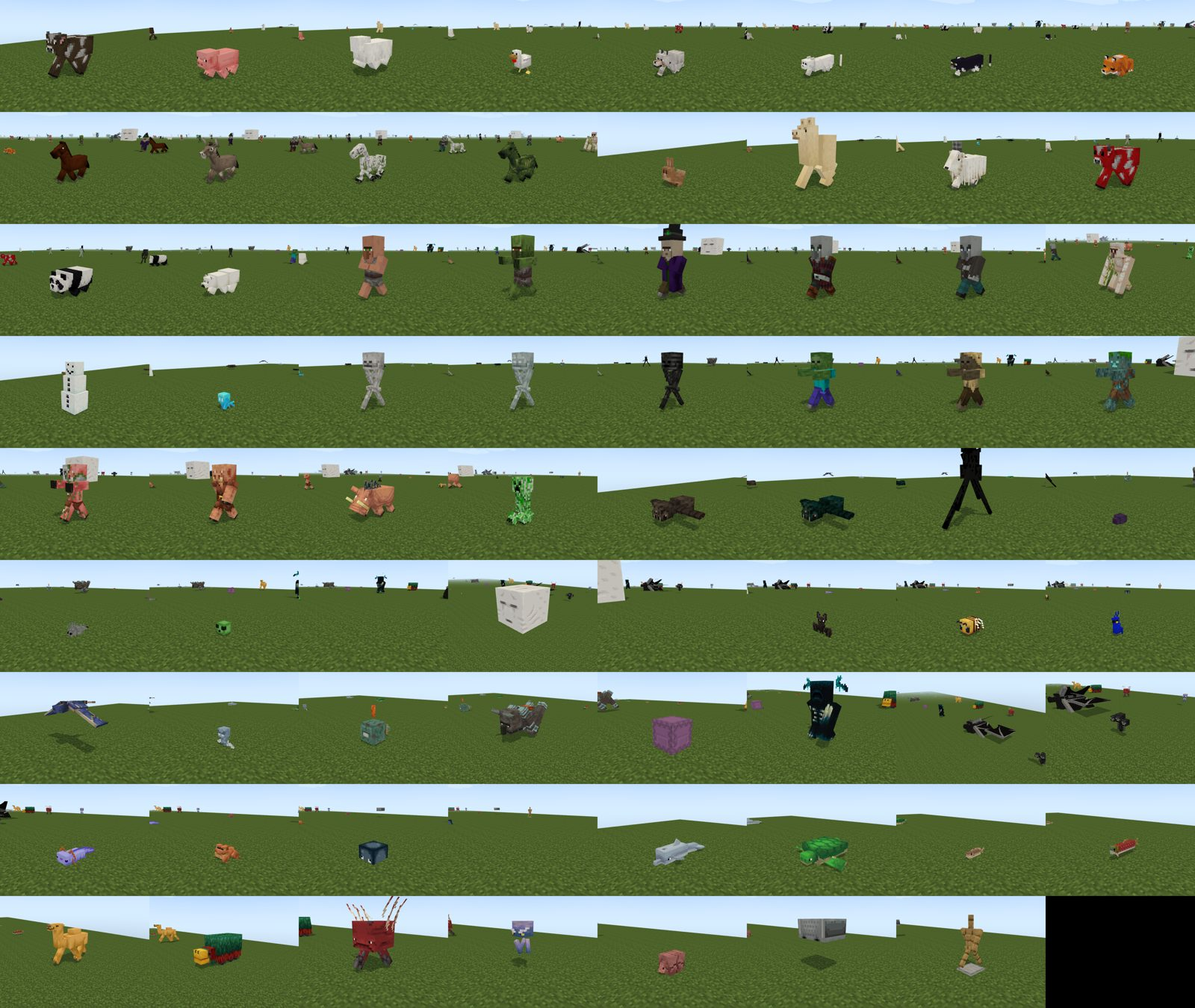
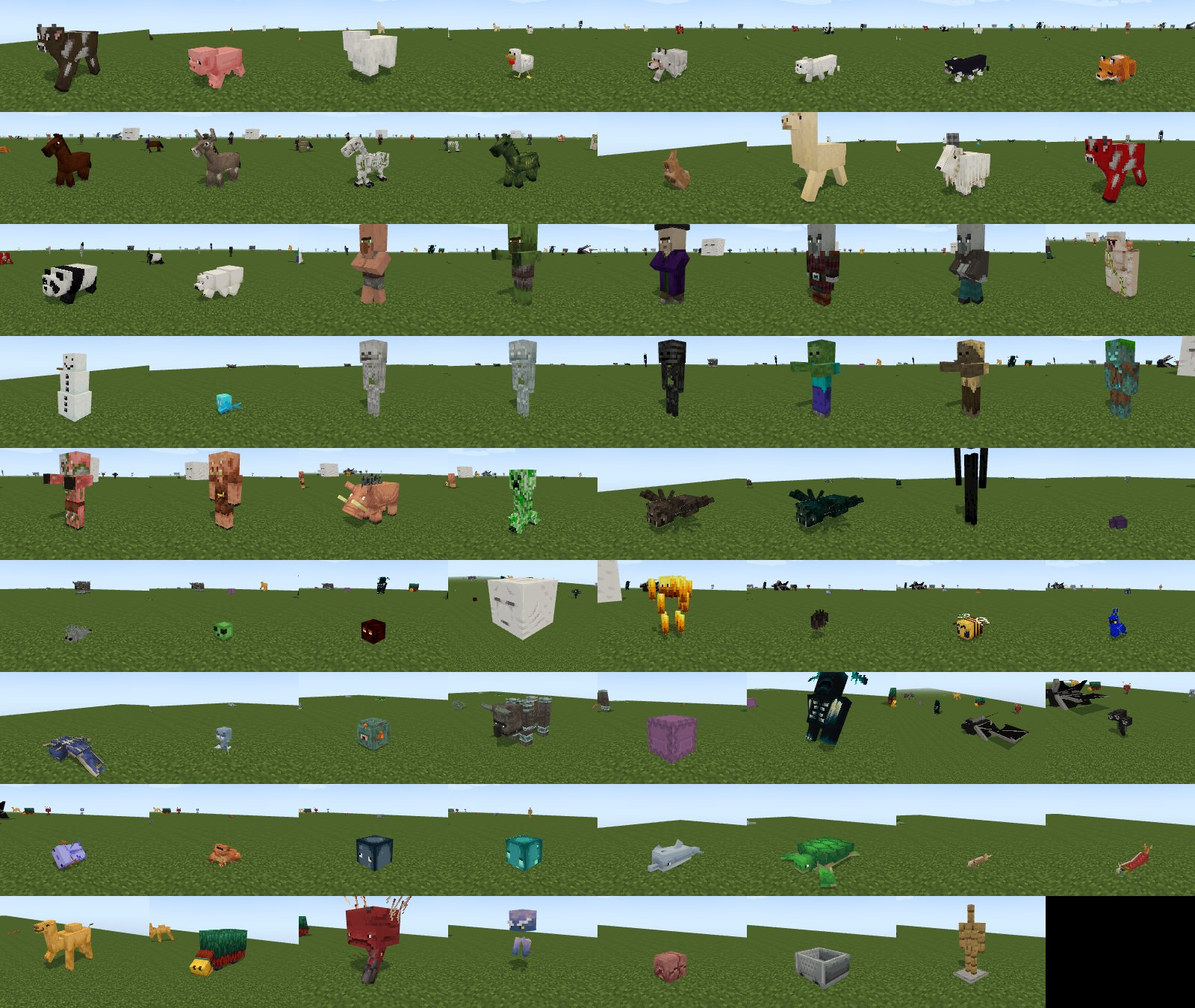
Mobs move with the game's own animations (Molang interpreter)
- core/engine/molang.js: a small Molang interpreter (math in degrees, query/variable/temp/context,
  ternaries, assignments, keyframes, `this`) and animateEntity(): the entity's animate list, controllers
  resolved to their base animation, situational animations gated by the clip, distance-driven gaits
  faded by the move speed
- tools/vanilla.py mobs stores each mob's animations and scripts; emissive-alpha textures (blaze,
  magma cube, glow squid) become opaque skins plus a glow map (they were invisible); llama body pose;
  wolf, polar bear and ender dragon keep the bone-name rules; guardian spikes use absolute pivots
- geo.js drives bones from Molang (per actor "molang": false to opt out); glowing texels ignore light
- tests: Molang parser, gait fade, `this`, situational gating, absolute pivots
- docs: MOBS, COVERAGE, README galleries regenerated

Claude-Session: https://claude.ai/code/session_01BQQ2P2NCNPsP6E9pmz2z7A

diff --git a/core/engine/molang.js b/core/engine/molang.js
@@ -1,0 +1,160 @@
+// A small Molang interpreter: the expression language the game uses for its entity animations
+// ("math.cos(query.anim_time * 38.17) * 80.0", "variable.wing_flap - this", "q.is_baby ? 2 : 1").
+// Expressions compile once into JS closures. Supported: numbers, strings, + - * / unary - !, comparisons, && || ?? ?:,
+// parentheses, assignments and ';' statements, math.* (trigonometry in degrees, like the game), query.* / variable.* / temp.* /
+// context.* (with the short forms q. v. t. c.) and `this`. Unknown queries and functions read as 0, so any animation evaluates.
+
+const MATH = {
+  sin: (d) => Math.sin(d * Math.PI / 180), cos: (d) => Math.cos(d * Math.PI / 180), abs: Math.abs, floor: Math.floor, ceil: Math.ceil,
+  round: Math.round, trunc: Math.trunc, sqrt: Math.sqrt, pow: Math.pow, exp: Math.exp, ln: Math.log, min: Math.min, max: Math.max,
+  clamp: (v, a, b) => Math.max(a, Math.min(b, v)), lerp: (a, b, t) => a + (b - a) * t, mod: (a, b) => a % b, pi: Math.PI,
+  asin: (v) => Math.asin(v) * 180 / Math.PI, acos: (v) => Math.acos(v) * 180 / Math.PI, atan: (v) => Math.atan(v) * 180 / Math.PI,
+  atan2: (y, x) => Math.atan2(y, x) * 180 / Math.PI, sign: Math.sign, hermite_blend: (t) => 3 * t * t - 2 * t * t * t,
+  lerprotate: (a, b, t) => { const d = ((((b - a) % 360) + 540) % 360) - 180; return a + d * t; },
+  random: (a, b) => a + (b - a) * 0.5, random_integer: (a, b) => Math.round((a + b) / 2), die_roll: (n, a, b) => n * (a + b) / 2,
+  min_angle: (v) => { let a = v % 360; if (a >= 180) a -= 360; if (a < -180) a += 360; return a; },
+};
+const ALIAS = { q: 'query', v: 'variable', t: 'temp', c: 'context' };
+
+function tokenize(src) {
+  const out = []; let i = 0;
+  while (i < src.length) {
+    const ch = src[i];
+    if (/\s/.test(ch)) { i++; continue; }
+    if (/[0-9]/.test(ch) || (ch === '.' && /[0-9]/.test(src[i + 1] ?? ''))) { let j = i; while (j < src.length && /[0-9.]/.test(src[j])) j++; if (src[j] === 'f') j++; out.push({ t: 'num', v: parseFloat(src.slice(i, j)) }); i = j; continue; }
+    if (/[A-Za-z_]/.test(ch)) { let j = i; while (j < src.length && /[A-Za-z0-9_.]/.test(src[j])) j++; out.push({ t: 'id', v: src.slice(i, j).toLowerCase() }); i = j; continue; }
+    if (ch === "'" || ch === '"') { let j = i + 1; while (j < src.length && src[j] !== ch) j++; out.push({ t: 'str', v: src.slice(i + 1, j) }); i = j + 1; continue; }
+    const two = src.slice(i, i + 2);
+    if (['&&', '||', '<=', '>=', '==', '!=', '??', '->'].includes(two)) { out.push({ t: 'op', v: two }); i += 2; continue; }
+    out.push({ t: 'op', v: ch }); i++;
+  }
+  return out;
+}
+
+const BP = { '=': 1, '?': 2, '??': 3, '||': 4, '&&': 5, '==': 6, '!=': 6, '<': 7, '>': 7, '<=': 7, '>=': 7, '+': 8, '-': 8, '*': 9, '/': 9 };
+
+function parse(tokens) {
+  let p = 0; const peek = () => tokens[p]; const next = () => tokens[p++];
+  const expect = (v) => { const t = next(); if (!t || t.v !== v) throw new Error('molang: expected ' + v); };
+  const ref = (name) => { const [head, ...rest] = name.split('.'); const ns = ALIAS[head] || head; return [ns, rest.join('.')]; };
+  function nud(tk) {
+    if (!tk) return () => 0;
+    if (tk.t === 'num') { const v = tk.v; return () => v; }
+    if (tk.t === 'str') { const v = tk.v; return () => v; }
+    if (tk.v === '(') { const e = expr(0); expect(')'); return e; }
+    if (tk.v === '{') { const body = statements('}'); expect('}'); return body; }
+    if (tk.v === '-') { const e = expr(10); return (env) => -e(env); }
+    if (tk.v === '+') return expr(10);
+    if (tk.v === '!') { const e = expr(10); return (env) => (e(env) ? 0 : 1); }
+    if (tk.t === 'id') {
+      const name = tk.v;
+      if (name === 'this') return (env) => env.this ?? 0;
+      if (name === 'true') return () => 1; if (name === 'false') return () => 0;
+      if (name === 'return') { const e = expr(0); return e; }
+      if (peek() && peek().v === '(') { // function call
+        next(); const args = []; while (peek() && peek().v !== ')') { args.push(expr(0)); if (peek() && peek().v === ',') next(); } expect(')');
+        const [ns, fn] = ref(name);
+        if (ns === 'math' && MATH[fn]) { const f = MATH[fn]; return (env) => f(...args.map((a) => a(env))); }
+        return (env) => { const q = env.query[fn]; return typeof q === 'function' ? q(...args.map((a) => a(env))) : (typeof q === 'number' ? q : 0); };
+      }
+      const [ns, key] = ref(name);
+      if (ns === 'math' && key === 'pi') return () => Math.PI;
+      if (ns === 'query') return (env) => { const q = env.query[key]; return typeof q === 'function' ? q() : (q ?? 0); };
+      return (env) => { const scope = env[ns] || (env[ns] = {}); return scope[key] ?? 0; };
+    }
+    return () => 0;
+  }
+  function expr(rbp) {
+    let left = nud(next());
+    for (;;) {
+      const tk = peek(); if (!tk || tk.t !== 'op') break; const bp = BP[tk.v]; if (bp === undefined || bp <= rbp) break;
+      next(); const op = tk.v; const l = left;
+      if (op === '?') { const a = expr(0); let b = () => 0; if (peek() && peek().v === ':') { next(); b = expr(1); } left = (env) => (l(env) ? a(env) : b(env)); continue; }
+      if (op === '=') { // assignment: the identifier is the token just before '='
+        const id = tokens[p - 2]; const r = expr(0);
+        if (id && id.t === 'id') { const [ns, key] = ref(id.v); left = (env) => { const v = r(env); (env[ns] || (env[ns] = {}))[key] = v; return v; }; } else left = r;
+        continue;
+      }
+      const r = expr(op === '??' ? bp - 1 : bp);
+      left = {
+        '+': (e) => l(e) + r(e), '-': (e) => l(e) - r(e), '*': (e) => l(e) * r(e), '/': (e) => { const d = r(e); return d === 0 ? 0 : l(e) / d; },
+        '<': (e) => +(l(e) < r(e)), '>': (e) => +(l(e) > r(e)), '<=': (e) => +(l(e) <= r(e)), '>=': (e) => +(l(e) >= r(e)),
+        '==': (e) => +(l(e) === r(e)), '!=': (e) => +(l(e) !== r(e)), '&&': (e) => +(!!l(e) && !!r(e)), '||': (e) => +(!!l(e) || !!r(e)),
+        '??': (e) => { const v = l(e); return v === undefined || v === null || v === 0 ? r(e) : v; },
+      }[op];
+    }
+    return left;
+  }
+  function statements(end) {
+    const list = [];
+    while (p < tokens.length && !(end && peek().v === end)) { if (peek().v === ';') { next(); continue; } list.push(expr(0)); if (peek() && peek().v === ';') next(); }
+    return (env) => { let v = 0; for (const s of list) v = s(env); return v; };
+  }
+  return statements(null);
+}
+
+const cache = new Map();
+export function compile(src) {
+  if (typeof src === 'number') return () => src;
+  if (typeof src !== 'string') return () => 0;
+  if (!cache.has(src)) { let f; try { f = parse(tokenize(src)); } catch { f = () => 0; } cache.set(src, f); }
+  return cache.get(src);
+}
+export const evaluate = (src, env) => { const v = compile(src)(env); return typeof v === 'number' && isFinite(v) ? v : 0; };
+
+// ----------------------------------------------------------------------------------------------- animations ----
+// Evaluate an entity's animations at one instant: returns Map(boneName -> { rot:[x,y,z] deg, pos:[x,y,z] px, scale }) of offsets that
+// add to the bind pose, like the game. `rest(bone)` gives the bind-pose rotation (for `this`).
+export function animateEntity(geo, queries, rest) {
+  const env = { query: queries, variable: {}, temp: {}, context: {} };
+  for (const s of geo.pre || []) evaluate(s, env);
+  const out = new Map(); const pivots = new Map((geo.bones || []).map((bn) => [bn.name.toLowerCase(), bn.pivot || [0, 0, 0]]));
+  // which animations play: the entity's animate list; controllers resolve to their base animation (move_controller -> move);
+  // situational ones (sleeping, sitting, riding, baby, attacks...) play only when the actor's clip asks for them
+  const A = geo.anims || {};
+  const resolveName = (n) => { if (A[n]) return n; if (n.endsWith('_controller')) { const b = n.slice(0, -11); for (const c of [b, b + '_default', b + '.rotations', b + '.v1.0']) if (A[c]) return c; } return null; };
+  const allow = (n) => (queries.is_attacking && /attack|bare_hand/.test(n)) || (queries.is_sprinting && /sprint/.test(n)) || (queries.is_flying && /fly/.test(n)) || (queries.is_sitting && /sit/.test(n)) || (queries.is_sleeping && /sleep|bed|lie/.test(n)) || (queries.is_baby && /baby/.test(n)) || (/bare_hand/.test(n) && queries.undead_arms);
+  const SITUATIONAL = /bed|sleep|lying|rolling|sneez|unhappy|baby|sit|lie_?down|rear|eat|graz|swim|sneak|rid(e|ing)|spear|bow|holding|use_item|damage|scary|carry|charg|celebr|roar|sniff|dig|emerge|sonic|ram_|shake|beg|panic|stand|inflate|attack|bare_hand|spyglass|gliding|crossbow|tongue|croak|jump|sprint|fly|tame|angry|interest|look_at_player_while/;
+  const entries = (geo.animate && geo.animate.length ? geo.animate : Object.keys(A));
+  const list = [];
+  for (const x of entries) {
+    const [n0, c] = typeof x === 'string' ? [x, 1] : Object.entries(x)[0]; const n = resolveName(n0); if (!n) continue;
+    if (SITUATIONAL.test(n) && !allow(n)) continue;
+    let w = typeof c === 'number' ? c : evaluate(c, env); w = w || (allow(n) ? 1 : 0);
+    // a gait driven by distance moved freezes mid-stride when the mob stops: the game fades it with the move speed
+    if (typeof c === 'number' && /modified_distance_moved/.test(A[n].anim_time_update || '')) w *= queries.modified_move_speed || 0;
+    list.push([n, w]);
+  }
+  for (const [name, weight] of list) {
+    const an = A[name]; if (!an || !weight || !an.bones) continue;
+    const len = an.animation_length || 0;
+    let at = an.anim_time_update ? evaluate(an.anim_time_update, env) : queries.life_time;
+    if (len && an.loop === true) at = ((at % len) + len) % len; else if (len) at = Math.min(at, len);
+    env.query = { ...queries, anim_time: at };
+    for (const [bone, ch] of Object.entries(an.bones)) {
+      const b = bone.toLowerCase(); const o = out.get(b) || { rot: [0, 0, 0], pos: [0, 0, 0], scale: 1 }; out.set(b, o);
+      void rest;
+      const read = (val, i, cur) => { env.this = cur; return evaluate(val, env); };
+      const chan = (v, at2) => { // a constant/expression triple, a single value, or keyframes {"0.0": [...], "0.5": [...]}
+        if (Array.isArray(v) || typeof v !== 'object' || v === null) return v;
+        const keys = Object.keys(v).map(Number).sort((a2, b2) => a2 - b2); if (!keys.length) return [0, 0, 0];
+        const pick = (k) => { const x = v[Object.keys(v).find((kk) => Number(kk) === k)]; return Array.isArray(x) ? x : (x && (x.post || x.pre)) || [0, 0, 0]; };
+        if (at2 <= keys[0]) return pick(keys[0]); if (at2 >= keys[keys.length - 1]) return pick(keys[keys.length - 1]);
+        let i = 0; while (keys[i + 1] < at2) i++; const k0 = keys[i], k1 = keys[i + 1], u = (at2 - k0) / (k1 - k0 || 1);
+        const A = pick(k0), B = pick(k1); return [0, 1, 2].map((j) => ({ lerp: [A[j], B[j], u] }));
+      };
+      const val3 = (v, cur) => {
+        const c = chan(v, env.query.anim_time);
+        if (!Array.isArray(c)) { const s = read(c, 0, cur[0]); return [s, s, s]; }
+        return c.map((x, j) => (x && x.lerp ? evaluate(x.lerp[0], env) + (evaluate(x.lerp[1], env) - evaluate(x.lerp[0], env)) * x.lerp[2] : read(x, j, cur[j])));
+      };
+      if (ch.rotation !== undefined) { const r = val3(ch.rotation, o.rot.slice()); for (let j = 0; j < 3; j++) o.rot[j] += r[j] * weight; } // `this` = what earlier animations added (the game's meaning)
+      if (ch.position !== undefined) { // legacy rigs (guardian) write absolute pivots: there `this` is the bone's own pivot
+        const base = geo.absPos ? (pivots.get(b) || [0, 0, 0]).map((v, j) => v + o.pos[j]) : o.pos;
+        const r = val3(ch.position, base); for (let j = 0; j < 3; j++) o.pos[j] += r[j] * weight;
+      }
+      if (ch.scale !== undefined) { const r = val3(ch.scale, [o.scale, o.scale, o.scale]); o.scale *= 1 + (r[0] - 1) * weight; }
+    }
+  }
+  return out;
+}

diff --git a/core/engine/geo.js b/core/engine/geo.js
@@ -3,6 +3,7 @@
 // so a cow, a villager, a horse, a bat or the ender dragon all walk, look and react without hand-made rigs.
 //
 // Frames: Bedrock models face -Z; BlockReel actors face +Z, so every point is turned half a turn around Y: (x, y, z) -> (-x, y, -z).
+import { animateEntity } from './molang.js';
 const PX = 1 / 16;
 const S = Math.sin;
 const DEG = Math.PI / 180;
@@ -37,11 +38,12 @@ const P = (p) => [-(p[0] || 0) * PX, (p[1] || 0) * PX, -(p[2] || 0) * PX];
 export function buildGeoModel(THREE, geo, tex, cfg = {}) {
   const TW = geo.tw || 64, TH = geo.th || 64;
   const mat = new THREE.MeshLambertMaterial({ map: tex, alphaTest: 0.5, side: THREE.DoubleSide });
+  if (cfg.glow) { mat.emissiveMap = cfg.glow; mat.emissive.set(0xffffff); mat.userData.glow = true; }
   const root = new THREE.Group(); const inner = new THREE.Group(); root.add(inner);
   const bones = new Map(); const byName = (n) => bones.get(String(n).toLowerCase());
   let minY = Infinity, maxY = -Infinity;
   for (const b of geo.bones) { // first pass: groups at their pivots (bones may be listed before their parents)
-    const g = new THREE.Group(); g.name = b.name; g.userData = { pivot: P(b.pivot || [0, 0, 0]), rest: rot(b.rotation), bone: b };
+    const g = new THREE.Group(); g.name = b.name; g.userData = { pivot: P(b.pivot || [0, 0, 0]), rest: rot(b.rotation), restDeg: b.rotation || [0, 0, 0], bone: b };
     g.rotation.order = 'ZYX'; g.rotation.set(...g.userData.rest);
     bones.set(b.name.toLowerCase(), g);
   }
@@ -84,9 +86,36 @@ export function buildGeoModel(THREE, geo, tex, cfg = {}) {
   const side = (g) => Math.sign(g.userData.pivot[0]) || 1; const front = (g) => g.userData.pivot[2] >= 0 ? 1 : -1;
   const undeadArms = /zombie|husk|drowned|pigman/i.test(cfg.type || '');
   const headY = Math.max(0.5, maxY) * sc, eyeY = (head ? head.userData.pivot[1] + 0.12 : maxY * 0.85) * sc;
+  // the game's own animations (Molang), when the cache has them: exact walk cycles, wings, the blaze's rods, the magma cube...
+  const useMolang = !!(geo.anims && cfg.molang !== false);
+  const basePos = new Map([...bones.values()].map((g) => [g, g.position.clone()]));
+  const molangUpdate = (st, t) => {
+    const walking = /walk|run|zombie|charge|sneak/.test(st.clip); const run = /run|charge/.test(st.clip);
+    const speed = walking ? (run ? 4.3 : 2.2) * (st.sp || 1) : 0;
+    const q = { life_time: t, anim_time: t, modified_move_speed: walking ? (run ? 0.75 : 0.45) : 0, modified_distance_moved: walking ? st.ct * speed * 4 : 0,
+      distance_moved: walking ? st.ct * speed : 0, ground_speed: speed, is_moving: walking ? 1 : 0, is_on_ground: 1, is_alive: 1, is_baby: cfg.baby ? 1 : 0,
+      delta_time: 1 / 30, time_of_day: 0.3, is_angry: st.clip === 'swell' ? 1 : 0, is_charging: st.clip === 'cast' ? 1 : 0, is_sheared: 0, has_target: 0,
+      target_x_rotation: 0, target_y_rotation: 0, head_x_rotation: () => 0, head_y_rotation: () => 0, body_y_rotation: 0, is_in_water: 0, is_jumping: 0, is_sitting: st.clip === 'sit' ? 1 : 0,
+      is_attacking: /swing|slash|overhead|punch|thrust/.test(st.clip) ? 1 : 0, attack_time: /swing|slash|overhead|punch|thrust/.test(st.clip) ? Math.min(1, st.ct / (st.dur || 0.6)) : 0,
+      is_flying: /fly|glide/.test(st.clip) ? 1 : 0, is_gliding: 0, swell_amount: 0, property: () => 0, all_animations_finished: 1, any_animation_finished: 1,
+      is_sprinting: run ? 1 : 0, is_sleeping: st.clip === 'sleep' ? 1 : 0, undead_arms: /zombie|husk|drowned|pigman/i.test(cfg.type || '') ? 1 : 0 };
+    const offs = animateEntity(geo, q, (b) => { const g = bones.get(b); return g ? g.userData.restDeg : null; });
+    for (const [name, g] of bones) {
+      const o = offs.get(name); const rd = g.userData.restDeg; const bp = basePos.get(g);
+      if (!o) { g.rotation.set(...g.userData.rest); g.position.copy(bp); g.scale.setScalar(1); continue; }
+      g.rotation.set(...rot([rd[0] + o.rot[0], rd[1] + o.rot[1], rd[2] + o.rot[2]]));
+      g.position.set(bp.x - o.pos[0] * PX, bp.y + o.pos[1] * PX, bp.z - o.pos[2] * PX); g.scale.setScalar(o.scale || 1);
+    }
+    let k = 1, flash = 0;
+    if (st.clip === 'swell') { const u = Math.min(1, st.ct / (st.dur || 1.5)); k = 1 + 0.35 * u * u + 0.03 * S(st.ct * 50); flash = Math.floor(st.ct * (5 + 6 * u)) % 2 === 0 ? 1 : 0; }
+    inner.scale.set(k, k, k); api.flash = flash;
+    if (st.clip === 'hit' || st.clip === 'knockback') { const u = Math.min(1, st.ct / (st.dur || 0.5)); inner.rotation.x = -0.35 * Math.sin(Math.PI * u); } else inner.rotation.x = 0;
+    inner.rotation.z = st.clip === 'die' || st.clip === 'fall' ? Math.min(1, st.ct / 0.5) * Math.PI / 2 : 0;
+  };
   const api = {
     root, head: head || inner, headY, eyeY, mats: [mat], flash: 0, bones,
     update(st, t) {
+      if (useMolang) { molangUpdate(st, t); return; }
       const walking = st.clip === 'walk' || st.clip === 'run' || st.clip === 'zombie' || st.clip === 'charge';
       const sp = (st.sp || 1) * (st.clip === 'run' || st.clip === 'charge' ? 1.6 : 1); const w = st.ct * 7 * sp; const amp = walking ? (st.clip === 'run' ? 1.0 : 0.7) : 0;
       for (const g of legs) { // diagonal pairs for four legs and more, alternating for two

diff --git a/core/engine/engine.js b/core/engine/engine.js
@@ -314,7 +314,9 @@ async function makeMob(name, cfg) {
   if (cfg.geo || mobIndex[cfg.type]) {
     const geoUrl = cfg.geo ? resolve(cfg.geo) : `/work/vanilla/mobs/${mobIndex[cfg.type].geo}`;
     const texUrl = cfg.texture && !cfg.texture.startsWith('/core/builtin/') ? resolve(cfg.texture) : `/work/vanilla/mobs/${mobIndex[cfg.type]?.texture ?? cfg.type + '.png'}`;
-    m = buildGeoModel(THREE, await getJSON(geoUrl), await pixelTex(texUrl), cfg);
+    const geo = await getJSON(geoUrl); // emissive mobs (blaze, magma cube, glow squid) carry a glow map: lit in the dark like the game
+    const glow = geo.glow && !cfg.texture ? await pixelTex(`/work/vanilla/mobs/${geo.glow}`) : null;
+    m = buildGeoModel(THREE, geo, await pixelTex(texUrl), { ...cfg, glow });
   } else {
     if (!['creeper', 'pig', 'spider'].includes(cfg.type)) throw new Error(`mob "${cfg.type}" needs the game's geometry: run python tools/vanilla.py mobs`);
     m = buildMob(THREE, cfg.type, await pixelTex(resolve(cfg.texture)), cfg);
@@ -678,6 +680,7 @@ function lightActors() {
     const k = (cave + (1 - cave) * s) * (a.mob && a.mob.flash ? 2.6 : 1); const warm = b * 1.0 * (1 - day * s); const hurt = a._hurt || 0;
     for (const m of a.mats) {
       m.color.setRGB(k, k * (1 - hurt * 0.6), k * (1 - hurt * 0.6));
+      if (m.userData.glow) { m.emissive.setRGB(1, 1 - hurt * 0.5, 1 - hurt * 0.5); continue; } // glowing texels ignore the light
       m.emissive.setRGB(LIGHT_U.uBlockColor.value.r * warm + hurt * 0.45, LIGHT_U.uBlockColor.value.g * warm, LIGHT_U.uBlockColor.value.b * warm);
     }
   }

diff --git a/tools/vanilla.py b/tools/vanilla.py
@@ -299,7 +299,31 @@ villager villager_v1.0 villager_v2 vindicator vindicator_v1.0 warden witch witch
 zombie.v1.0 zombie_pigman zombie_pigman.v1.0 zombie_villager zombie_villager.v1.0 zombie_villager_v2""".split()
 
 
-MOB_FIXES = {"polar_bear": {"body": [90, 0, 0]}, "cat": {"body": [90, 0, 0]}, "ocelot": {"body": [90, 0, 0]}}
+ANIM_FILES = """actor.animation.json agent.animation.json allay.animation.json armadillo.animation.json armor.animation.json armor_stand.animation.json arrow.animation.json axolotl.animation.json bat.animation.json bee.animation.json blaze.animation.json bow.animation.json breeze.animation.json camel.animation.json cat.animation.json chicken.animation.json cod.animation.json copper_golem.animation.json cow.animation.json creaking.animation.json creeper.animation.json crossbow.animation.json dolphin.animation.json drowned.animation.json drowned.animation.v1.0.json elytra.animation.json ender_crystal.animation.json ender_dragon.animation.json enderman.animation.json enderman.animation.v1.0.json endermite.animation.json evocation_fang.animation.json evoker.animation.json fireworks_rocket.animation.json fox.animation.json frog.animation.json ghast.animation.json goat.animation.json guardian.animation.json guardian.animation.v1.0.json happy_ghast.animation.json hoglin.animation.json horse_v1.animation.json horse_v2.animation.json horse_v3.animation.json humanoid.animation.json iron_golem.animation.json llama.animation.json llama_spit.animation.json look_at_target.animation.json magma_cube.animation.json minecart.animation.json minecart.animation.v1.0.json mooshroom.animation.json nautilus.animation.json npc.animation.json ocelot.animation.json ocelot.animations.v1.0.json panda.animation.json parrot.animation.json phantom.animation.json pig.animation.json piglin.animation.json pillager.animation.json player.animation.json player_firstperson.animation.json polar_bear.animation.json pufferfish.animation.json quadruped.animation.json rabbit.animation.json rabbit.v2.animation.json ravager.animation.json salmon.animation.json sheep.animation.json shield.animation.json shulker.animation.json shulker.animations.v1.0.json shulker_bullet.animation.json silverfish.animation.json skeleton.animation.json skeleton.animations.v1.0.json sniffer.animation.json snow_golem.animation.json snow_golem.animations.v1.0.json spear.animation.json spider.animation.json spyglass.animation.json squid.animation.json strider.animation.json sulfur_cube.animation.json tadpole.animation.json trident.animation.json tripod_camera.animation.json tropicalfish.animation.json turtle.animation.json turtle.animations.json vex.animation.json villager.animation.json vindicator.animation.json warden.animation.json wind_charge.animation.json witch.animation.json wither_boss.animation.json wither_skeleton.animation.json wither_skull.animation.json wolf.animations.json zombie.animation.json""".split()
+
+
+def _anim_index(base, raw):
+    """animation id -> animation definition, from every animation file of the samples."""
+    idx = {}
+    for fn in ANIM_FILES:
+        rel = f"animations/{fn}"; dst = raw / rel
+        try:
+            if not dst.exists():
+                dst.parent.mkdir(parents=True, exist_ok=True)
+                req = urllib.request.Request(base + rel, headers={"User-Agent": "blockreel-vanilla-fetch"})
+                with urllib.request.urlopen(req, timeout=30) as r:
+                    dst.write_bytes(r.read())
+            d = _loose_json(dst.read_text(encoding="utf-8", errors="replace"))
+            idx.update(d.get("animations", {}))
+        except Exception:
+            continue
+    return idx
+
+
+# mobs whose game animations set absolute poses for a legacy rig (they fight our rest pose): animated procedurally instead
+MOLANG_SKIP = {"wolf", "polar_bear", "ender_dragon"}
+MOLANG_ABS_POS = {"guardian", "elder_guardian"}  # their animations write absolute pivots (the spikes)
+MOB_FIXES = {"polar_bear": {"body": [90, 0, 0]}, "llama": {"body": [90, 0, 0]}, "trader_llama": {"body": [90, 0, 0]}, "cat": {"body": [90, 0, 0]}, "ocelot": {"body": [90, 0, 0]}}
 
 
 def _loose_json(t):
@@ -351,7 +375,7 @@ def _resolve(idx, ident, depth=0):
 
 def mobs(source="mojang"):
     base = SOURCES[source]; raw = OUT / "raw" / source; out = OUT / "mobs"; out.mkdir(parents=True, exist_ok=True)
-    idx = _geo_index(base, raw); done, missing = {}, []
+    idx = _geo_index(base, raw); aidx = _anim_index(base, raw); done, missing = {}, []
     for name, ent in MOB_ENTITIES.items():
         try:
             rel = f"entity/{ent}.entity.json"; dst = raw / rel
@@ -378,8 +402,21 @@ def mobs(source="mojang"):
                     continue
             if img is None:
                 missing.append(f"{name} (texture {tpath})"); continue
+            img = img.convert("RGBA"); geo["texture"] = f"{name}.png"
+            a = img.getchannel("A")
+            if 0 < a.getextrema()[1] < 255:  # an emissive-alpha material (blaze, magma cube, glow squid): the alpha is the glow mask
+                from PIL import ImageChops     # and the skin itself is opaque; glow = colour x alpha, like the game's lerp to unlit
+                glow = ImageChops.multiply(img.convert("RGB"), Image.merge("RGB", [a, a, a]))
+                glow.save(out / f"{name}.glow.png"); geo["glow"] = f"{name}.glow.png"; img.putalpha(255)
             img.save(out / f"{name}.png")
-            geo["texture"] = f"{name}.png"; geo["entity"] = ent; geo["geometry"] = gid
+            geo["entity"] = ent; geo["geometry"] = gid
+            # the game's animations for this mob (Molang), evaluated by core/engine/molang.js
+            anims = {k: aidx[v] for k, v in (desc.get("animations") or {}).items() if isinstance(v, str) and v in aidx}
+            if anims and name not in MOLANG_SKIP:
+                sc = desc.get("scripts") or {}
+                geo["anims"] = anims; geo["animate"] = sc.get("animate") or list(anims.keys())
+                geo["absPos"] = name in MOLANG_ABS_POS
+                geo["pre"] = [x for x in (sc.get("initialize") or []) + (sc.get("pre_animation") or []) if isinstance(x, str)]
             (out / f"{name}.geo.json").write_text(json.dumps(geo))
             done[name] = {"geo": f"{name}.geo.json", "texture": f"{name}.png"}
         except Exception as e:

diff --git a/docs/COVERAGE.md b/docs/COVERAGE.md
@@ -10,10 +10,10 @@ The goal is a skill that can make *any* Minecraft animation. It is not there yet
 | Player model from a skin (classic / slim, legacy 64x32, both layers) | done | proportions checked against the game: shoulders flush with the torso top, head sits directly on the body (no neck) |
 | Face: blink, eyes, mouth, wounds, glow, lip-sync | done | rows 3-7 of the face are repainted; skins must keep eyes on row 4 |
 | ~70 mobs with the game's own geometry and texture (cow, sheep, horse, villager, skeleton, enderman, iron golem, warden, ender dragon...) | done | `tools/vanilla.py mobs` + `core/engine/geo.js`; walk/idle/look/hit/die/swell animated by bone names; all rendered and checked (`docs/MOBS.md`) |
-| Blaze rods, magma cube segments | partial | placed by the game's Molang animations, not evaluated |
+| Blaze rods, magma cube segments, glowing mobs | done | the game's Molang animations are evaluated (`core/engine/molang.js`); emissive textures glow |
 | Creeper-, pig-, spider-shaped rigs without the cache | done | CC0 fallback rigs (`core/engine/mobs.js`) |
 | Zombie / any humanoid mob | done | a normal actor with its texture and the `zombie` clip |
-| Mob-specific animations (a spider's crawl, a horse's gallop, a dragon's flight path) | partial | generic leg/arm/wing/tail rules; exact per-mob animations would need a Molang interpreter |
+| Mob-specific animations (a horse's gait and tail, a bee's wings, a villager's crossed arms, a blaze's rods) | done | the game's own animations through a Molang interpreter; the wolf, polar bear and ender dragon use the bone-name rules. A dragon's flight *path* is still yours to plan (`to` waypoints) |
 | Baby mobs, mob variants | missing | |
 | Armour layers (8 materials, leather tinted), shield, cape (swings with speed), elytra (folds / spreads) | done | the game's textures (`tools/vanilla.py equipment`) or CC0 originals |
 | Crowds of hundreds | missing | many actors work, but there is no instancing |
@@ -88,7 +88,7 @@ The goal is a skill that can make *any* Minecraft animation. It is not there yet
 
 ## Suggested order to close the gaps (highest impact first)
 
-1. **Molang animations** for exact per-mob motion (blaze rods, magma cube, gallop, flight).
+1. **Baby mobs and variants** (the game's baby scaling is already in the Molang scripts; variant textures are not fetched).
 2. **Redstone** (lamps, pistons, levers), boats, overhangs.
 3. Crowd instancing, shader-pack style reflections, voice generation beyond the offline voices.
 

diff --git a/docs/MOBS.md b/docs/MOBS.md
@@ -25,8 +25,15 @@ Checked by rendering all of them walking (and by `tests/geo_check.mjs` for the r
 (`bind_pose_rotation`, pivot-less cube rotations turn about the cube's centre; the polar bear, cat and ocelot body poses the game sets in
 code are added by the fetch tool), bones marked `neverRender` hide only their own cubes.
 
-**Partial:** the blaze's rods and the magma cube's segments are placed by the game's Molang animations, which are not evaluated:
-their parts sit stacked. The evoker and the boat are not in the samples under those names.
+**The game's own animations (Molang).** The fetch tool also stores each mob's animations and its `animate` / `pre_animation` scripts;
+`core/engine/molang.js` evaluates them every frame (a small Molang interpreter: math in degrees, `query.*` / `variable.*`, ternaries,
+keyframes, `this`). So the blaze's rods orbit, the magma cube's slices squash, a horse's legs and tail, a bee's wings, a villager's arms,
+a chicken's flaps and ~60 other mobs move exactly like the game. Queries the engine answers: `life_time`, `anim_time`,
+`modified_move_speed`, `modified_distance_moved` (gaits fade out when the mob stops), `is_sprinting`, `is_sleeping`, `is_sitting`,
+`is_attacking`... Situational animations (sitting, lying, sleeping, baby, eating, attacking...) play only when the clip asks for them.
+Disable per actor with `"molang": false` (the bone-name rules take over). The wolf, polar bear and ender dragon keep the bone-name rules (their
+game animations drive an older rig the game builds in code); the guardian's spikes use the game's absolute positions. Emissive mobs (blaze, magma cube, glow squid) glow in the dark: their texture's alpha is
+a glow map, as in the game. The evoker and the boat are not in the samples under those names.
 
 **Zombie as an actor:** a zombie can also be a normal actor with the zombie texture as its skin and the `zombie` walk clip
 (`compose.py` does this): every player clip (fights, falls, faces) then works on it.

diff --git a/README.pt-BR.md b/README.pt-BR.md
@@ -135,7 +135,7 @@ Cada imagem é um render real do laboratório `examples/*-lab` correspondente (r
 
 <details><summary><b>Equipamentos e movimentos</b>: armaduras, escudo, capa, élitro; montar, nadar, rastejar, escalar, comer, beber, dormir, planar</summary><img src="docs/media/gallery-equipment.jpg" alt="Armadura de diamante com escudo, couro com capa vermelha correndo, élitro, montando um cavalo, nadando, rastejando, comendo, bebendo, dormindo, planando"></details>
 
-<details><summary><b>Mobs</b>: cerca de 70 mobs com a geometria e a textura do próprio jogo, animados pelos nomes dos ossos (<code>python tools/vanilla.py mobs</code>)</summary><img src="docs/media/gallery-all-mobs.jpg" alt="Cerca de 70 mobs andando: vaca, porco, ovelha, galinha, lobo, gato, raposa, cavalos, lhama, aldeão, bruxa, illagers, golens, esqueletos, zumbis, piglins, creeper, aranhas, enderman, ghast, abelha, papagaio, phantom, warden, dragão, wither, axolote, golfinho, tartaruga, camelo, sniffer, strider"></details>
+<details><summary><b>Mobs</b>: cerca de 70 mobs com a geometria, a textura e as animações do próprio jogo (Molang, avaliado pelo motor) (<code>python tools/vanilla.py mobs</code>)</summary><img src="docs/media/gallery-all-mobs.jpg" alt="Cerca de 70 mobs andando: vaca, porco, ovelha, galinha, lobo, gato, raposa, cavalos, lhama, aldeão, bruxa, illagers, golens, esqueletos, zumbis, piglins, creeper, aranhas, enderman, ghast, abelha, papagaio, phantom, warden, dragão, wither, axolote, golfinho, tartaruga, camelo, sniffer, strider"></details>
 
 ## 🧍 Skins e 🧱 texturas
 

diff --git a/README.md b/README.md
@@ -200,7 +200,7 @@ Each picture below is a real render from the matching `examples/*-lab` storyboar
 </details>
 
 <details>
-<summary><b>Mobs</b>: about 70 mobs with the game's own geometry and texture, animated by bone names (<code>python tools/vanilla.py mobs</code>)</summary>
+<summary><b>Mobs</b>: about 70 mobs with the game's own geometry, texture and animations (Molang, evaluated by the engine; <code>python tools/vanilla.py mobs</code>)</summary>
 <img src="docs/media/gallery-all-mobs.jpg" alt="About 70 mobs walking: cow, pig, sheep, chicken, wolf, cat, fox, horses, llama, villager, witch, illagers, golems, skeletons, zombies, piglins, creeper, spiders, enderman, ghast, bee, parrot, phantom, warden, ender dragon, wither, axolotl, dolphin, turtle, camel, sniffer, strider">
 </details>
 
